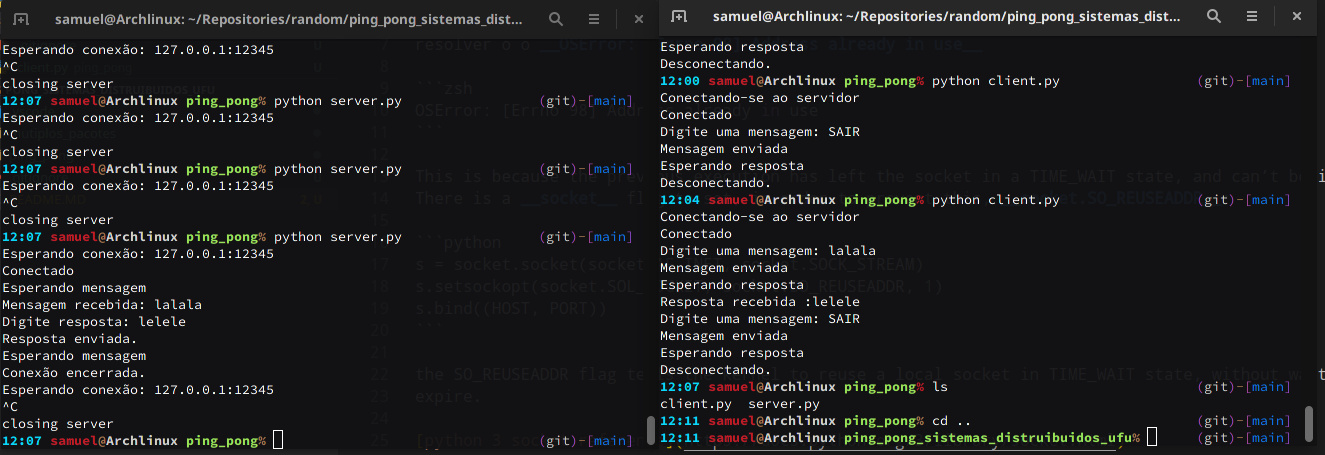
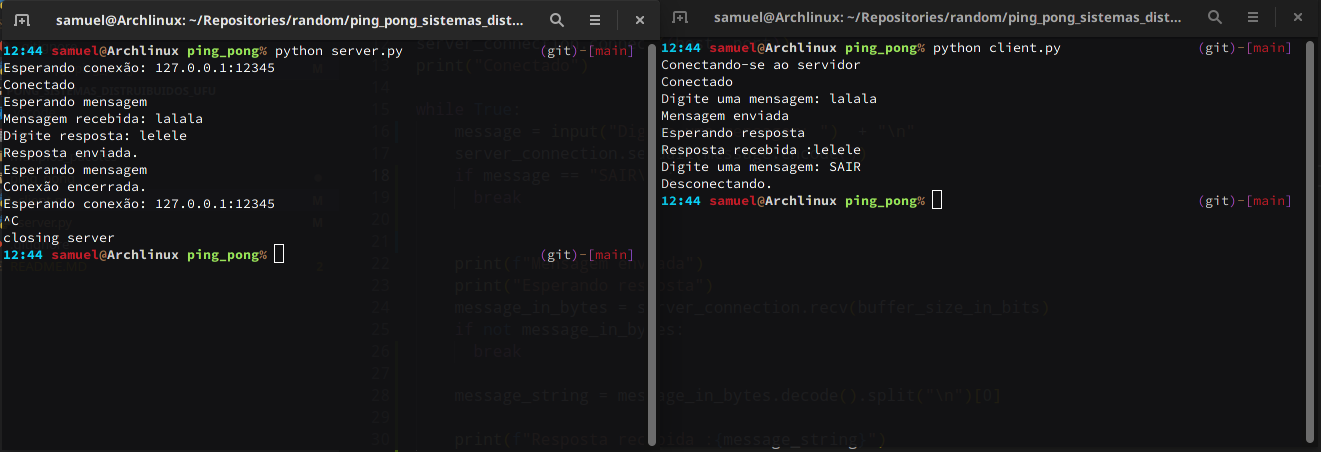
adicionado um tratamento de erro simples

diff --git a/ping_pong/server.py b/ping_pong/server.py
@@ -23,16 +23,23 @@ def chat(client_connection:socket.socket):
      while True:
             print("Esperando mensagem")
             message_in_bytes = client_connection.recv(buffer_size_in_bits)
-            message_string = message_in_bytes.decode()
-            if message_string == "SAIR":
-                client_connection.close()
-                print("Conexão encerrada.")
-                return
 
-            print(f"Mensagem recebida: {message_in_bytes.decode()}")
-            response = input("Digite resposta: ")
+            if not message_in_bytes:
+                break
+            message_string = message_in_bytes.decode()
+            message_string = message_string.split("\n")[0]
+
+            if message_string == "SAIR":
+                break
+    
+
+            print(f"Mensagem recebida: {message_string}")
+            response = input("Digite resposta: ") +"\n"
             client_connection.sendall(response.encode())
             print("Resposta enviada.")
+     
+     client_connection.close()
+     print("Conexão encerrada.")
  
 
 # Now wait for client connections.

diff --git a/ping_pong/client.py b/ping_pong/client.py
@@ -13,14 +13,21 @@ server_connection.connect((host, port))
 print("Conectado")
 
 while True:
-    message = input("Digite uma mensagem: ")
+    message = input("Digite uma mensagem: ")  + "\n"
     server_connection.sendall(message.encode())
+    if message == "SAIR\n":
+      break
 
+    
     print(f"Mensagem enviada")
     print("Esperando resposta")
     message_in_bytes = server_connection.recv(buffer_size_in_bits)
     if not message_in_bytes:
-        print("Desconectando.")
-        exit(1)
+      break
+    
+    message_string = message_in_bytes.decode().split("\n")[0]
 
-    print(f"Resposta recebida :{message_in_bytes.decode()}")
+    print(f"Resposta recebida :{message_string}")
+
+server_connection.close()
+print("Desconectando.")
